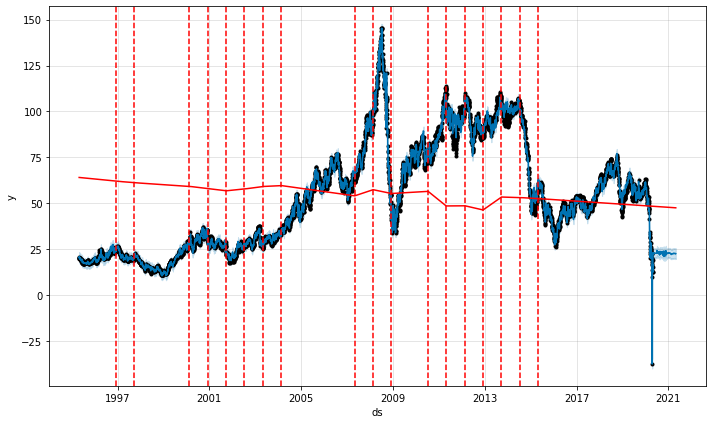
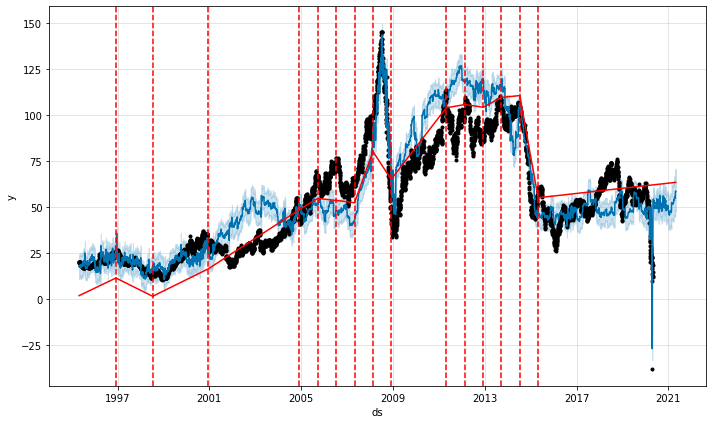
Update model_building_prophet with add regressor

Changed region(s): [[0.0309, 0.0307, 0.9888, 0.8892], [0.5871, 0.6745, 0.618, 0.7358], [0.0309, 0.6745, 0.0618, 0.7052]]

diff --git a/model_building_prophet.py b/model_building_prophet.py
@@ -119,8 +119,63 @@ mape_imporvement = p.mean_absolute_percentage_error(imporvement_cv.y, imporvemen
 #imporvement Model--Additional regressors
 ##prepare data
 import pandas as pd
-data_with_regressors = pd.read_csv(os.path.join(path_prefix, 'data/data_clean.csv'),usecols = ["index", "wti_price", 'monetary_base','cpi','brent_price',"fuel_price"],parse_dates =["index"])
+import preprocess as p
+#data_with_regressors = pd.read_csv(os.path.join(path_prefix, 'data/data_clean.csv'),usecols = ["index", "wti_price", 'monetary_base','cpi','fed_fund'],parse_dates =["index"])
+#data_with_regressors=data_with_regressors.rename(columns={'index':'ds', "wti_price": "y"})
+monetary_base = pd.read_csv('D:/USA 2020 summer/Machine Learning/ds_oil_price_proj/data/BOGMBASEW.csv',parse_dates =["DATE"], index_col ="DATE")
+monetary_base.rename(columns={'BOGMBASEW':'monetary_base'}, 
+                 inplace=True)
+monetary_base.index = monetary_base.index+ pd.DateOffset(-2)
+monetary_base = monetary_base.reset_index()
+monetary_base_diff = p.difference(monetary_base['monetary_base'], interval=1)
+monetary_base_diff = monetary_base_diff.to_frame()
+monetary_base_diff =monetary_base_diff.append({0:0}, ignore_index=True)
+monetary_base_diff['adjust'] = 0
+for i in range(len(monetary_base_diff)):
+    monetary_base_diff['adjust'].loc[i+1] = monetary_base_diff[0].loc[i]
+
+monetary_base["monetary_base_diff"] = monetary_base_diff['adjust']
+monetary_base = monetary_base.set_index('DATE')    
+monetary_base = monetary_base.resample('D').ffill()
+
+cpi = pd.read_csv("D:/USA 2020 summer/Machine Learning/ds_oil_price_proj/data/CPI.csv", usecols = ["Label", "Value"],parse_dates =["Label"], index_col ="Label")
+cpi.rename(columns={'Value':'cpi'}, 
+                 inplace=True)
+cpi = cpi.reset_index()
+cpi_diff = p.difference(cpi['cpi'], interval=1)
+cpi_diff = cpi_diff.to_frame()
+cpi_diff =cpi_diff.append({0:0}, ignore_index=True)
+cpi_diff['adjust'] = 0
+for i in range(len(cpi_diff)):
+    cpi_diff['adjust'].loc[i+1] = cpi_diff[0].loc[i]
+
+cpi["cpi_diff"] = cpi_diff['adjust']
+cpi = cpi.set_index('Label')
+cpi = cpi.resample('D').ffill()
+
+fed_fund = pd.read_csv('D:/USA 2020 summer/Machine Learning/ds_oil_price_proj/data/fed-funds-rate-historical-chart.csv',skiprows=15,parse_dates =["date"], index_col ="date")
+fed_fund.rename(columns={' value':'fed_fund'}, 
+                 inplace=True)
+
+#bond_5year = pd.read_csv('D:/USA 2020 summer/Machine Learning/ds_oil_price_proj/data/5-year-treasury-bond-rate-yield-chart.csv',skiprows=15,parse_dates =["date"], index_col ="date")
+#bond_5year.rename(columns={' value':'bond_5year'}, 
+#                 inplace=True)
+
+wti = pd.read_csv('D:/USA 2020 summer/Machine Learning/ds_oil_price_proj/data/Crude Oil WTI Futures Historical Data.csv',usecols = ["Date", "Price", "Vol."],parse_dates =["Date"], index_col ="Date")
+wti.rename(columns={'Price':'wti_price',"Vol.":"wti_volumn"}, 
+                 inplace=True)
+wti1 = pd.read_csv('D:/USA 2020 summer/Machine Learning/ds_oil_price_proj/data/Crude Oil WTI Futures Historical Data (1).csv',usecols = ["Date", "Price", "Vol."],parse_dates =["Date"], index_col ="Date")
+wti1.rename(columns={'Price':'wti_price',"Vol.":"wti_volumn"}, 
+                 inplace=True)
+wti_oil_price= pd.concat([wti1,wti])
+
+data_with_regressors= pd.concat([wti_oil_price["wti_price"],monetary_base["monetary_base_diff"],cpi["cpi_diff"],fed_fund], axis=1)
+data_with_regressors=data_with_regressors.loc['1995-05-01':"2020-04-30"]
+data_with_regressors = data_with_regressors.reset_index()
+data_with_regressors = data_with_regressors[data_with_regressors['index'].dt.weekday < 5]
+data_with_regressors=data_with_regressors.fillna(method='pad')
 data_with_regressors=data_with_regressors.rename(columns={'index':'ds', "wti_price": "y"})
+
 
 ## set up season
 election = pd.DataFrame({
@@ -141,7 +196,7 @@ crisis = pd.DataFrame({
   'holiday': 'crisis',
   'ds': pd.to_datetime(['2008-05-20']),#'2000-03-10',"2003-03-20", ,'2010-09-15'
   'lower_window': -120,
-  'upper_window': 270,
+  'upper_window': 360,
 })
 holidays = pd.concat((election, events, crisis))
 
@@ -155,26 +210,27 @@ holidays = pd.concat((election, events, crisis))
 ##Train
 from fbprophet import Prophet
 from fbprophet.plot import add_changepoints_to_plot
-model_imporvement2 = Prophet(holidays=holidays, weekly_seasonality=False, yearly_seasonality=20, seasonality_mode='multiplicative')
+model_imporvement2 = Prophet(holidays=holidays, weekly_seasonality=False, yearly_seasonality=20)
 model_imporvement2.add_seasonality(name='monthly', period=30.5, fourier_order=5)
-model_imporvement2.add_regressor('monetary_base', mode='multiplicative')
-model_imporvement2.add_regressor('cpi', mode='multiplicative')
-model_imporvement2.add_regressor('brent_price', mode='multiplicative')
-model_imporvement2.add_regressor('fuel_price', mode='multiplicative')
+model_imporvement2.add_regressor('monetary_base_diff')
+model_imporvement2.add_regressor('cpi_diff')
+model_imporvement2.add_regressor('fed_fund')
+#model_imporvement2.add_regressor('bond_5year')
+#model_imporvement2.add_regressor('fuel_price', mode='multiplicative')
 #model_imporvement2.add_regressor('saudi_production', mode='multiplicative')
 #weekly_seasonality=False,  .add_seasonality(name='monthly', period=30.5, fourier_order=5),  changepoint_range=0.9, changepoint_prior_scale=0.5, .add_country_holidays(country_name='US')
 
 model_imporvement2.fit(data_with_regressors)
 
 future_imporvement2 = model_imporvement2.make_future_dataframe(periods=365)
-future_imporvement2["monetary_base"] = data_with_regressors["monetary_base"]
-future_imporvement2["monetary_base"] = future_imporvement2["monetary_base"].fillna(method='pad')
-future_imporvement2["cpi"] = data_with_regressors["cpi"]
-future_imporvement2["cpi"]= future_imporvement2["cpi"].fillna(method='pad')
-future_imporvement2["brent_price"] = data_with_regressors["brent_price"]
-future_imporvement2["brent_price"] = future_imporvement2["brent_price"].fillna(method='pad')
-future_imporvement2["fuel_price"] = data_with_regressors["fuel_price"]
-future_imporvement2["fuel_price"] = future_imporvement2["fuel_price"].fillna(method='pad')
+future_imporvement2["monetary_base_diff"] = data_with_regressors["monetary_base_diff"]
+future_imporvement2["monetary_base_diff"] = future_imporvement2["monetary_base_diff"].fillna(method='pad')
+future_imporvement2["cpi_diff"] = data_with_regressors["cpi_diff"]
+future_imporvement2["cpi_diff"]= future_imporvement2["cpi_diff"].fillna(method='pad')
+future_imporvement2["fed_fund"] = data_with_regressors["fed_fund"]
+future_imporvement2["fed_fund"] = future_imporvement2["fed_fund"].fillna(method='pad')
+#future_imporvement2["bond_5year"] = data_with_regressors["bond_5year"]
+#future_imporvement2["bond_5year"] = future_imporvement2["bond_5year"].fillna(method='pad')
 #future_imporvement2["saudi_production"] = data_with_regressors["saudi_production"]
 #future_imporvement2["saudi_production"] = future_imporvement2["saudi_production"].fillna(method='pad')
 #future_imporvement['on_season'] = future_imporvement['ds'].apply(is_nfl_season)
@@ -191,7 +247,6 @@ import predict as p
 from fbprophet.diagnostics import cross_validation
 imporvement2_cv = cross_validation(model_imporvement2, initial='730 days', period='180 days', horizon = '365 days')
 mape_imporvement2 = p.mean_absolute_percentage_error(imporvement2_cv.y, imporvement2_cv.yhat)
-
 
 
 
